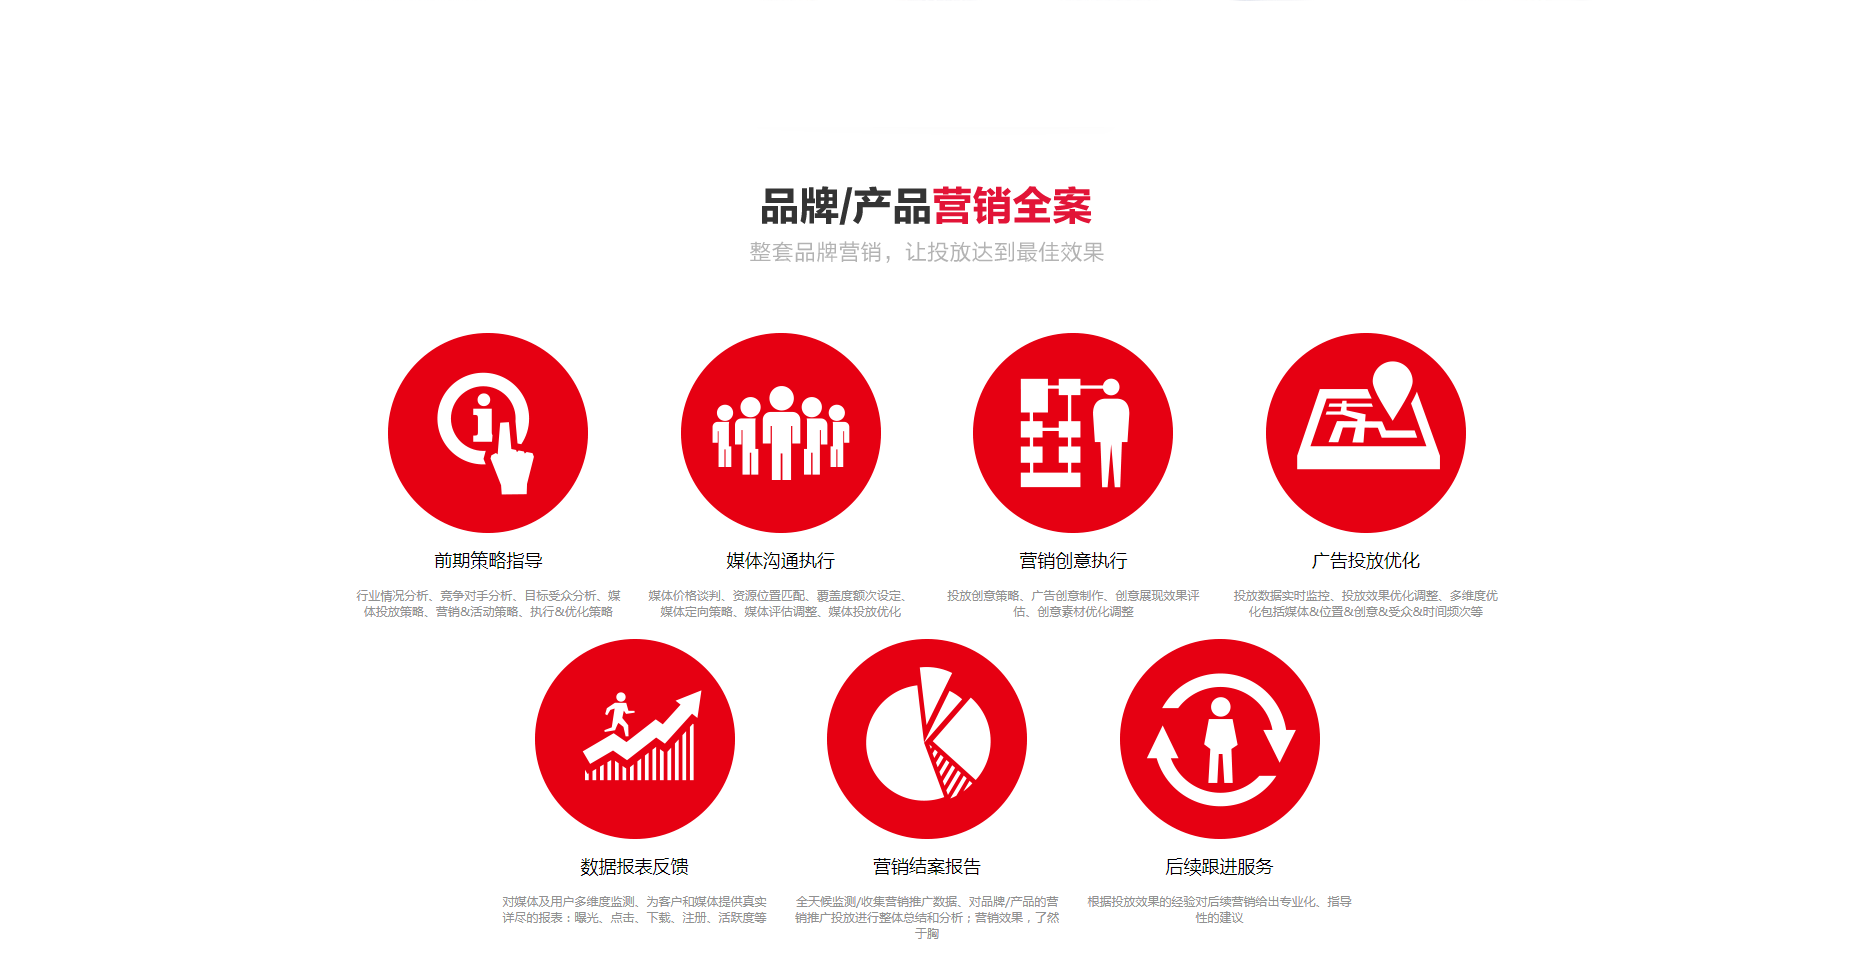
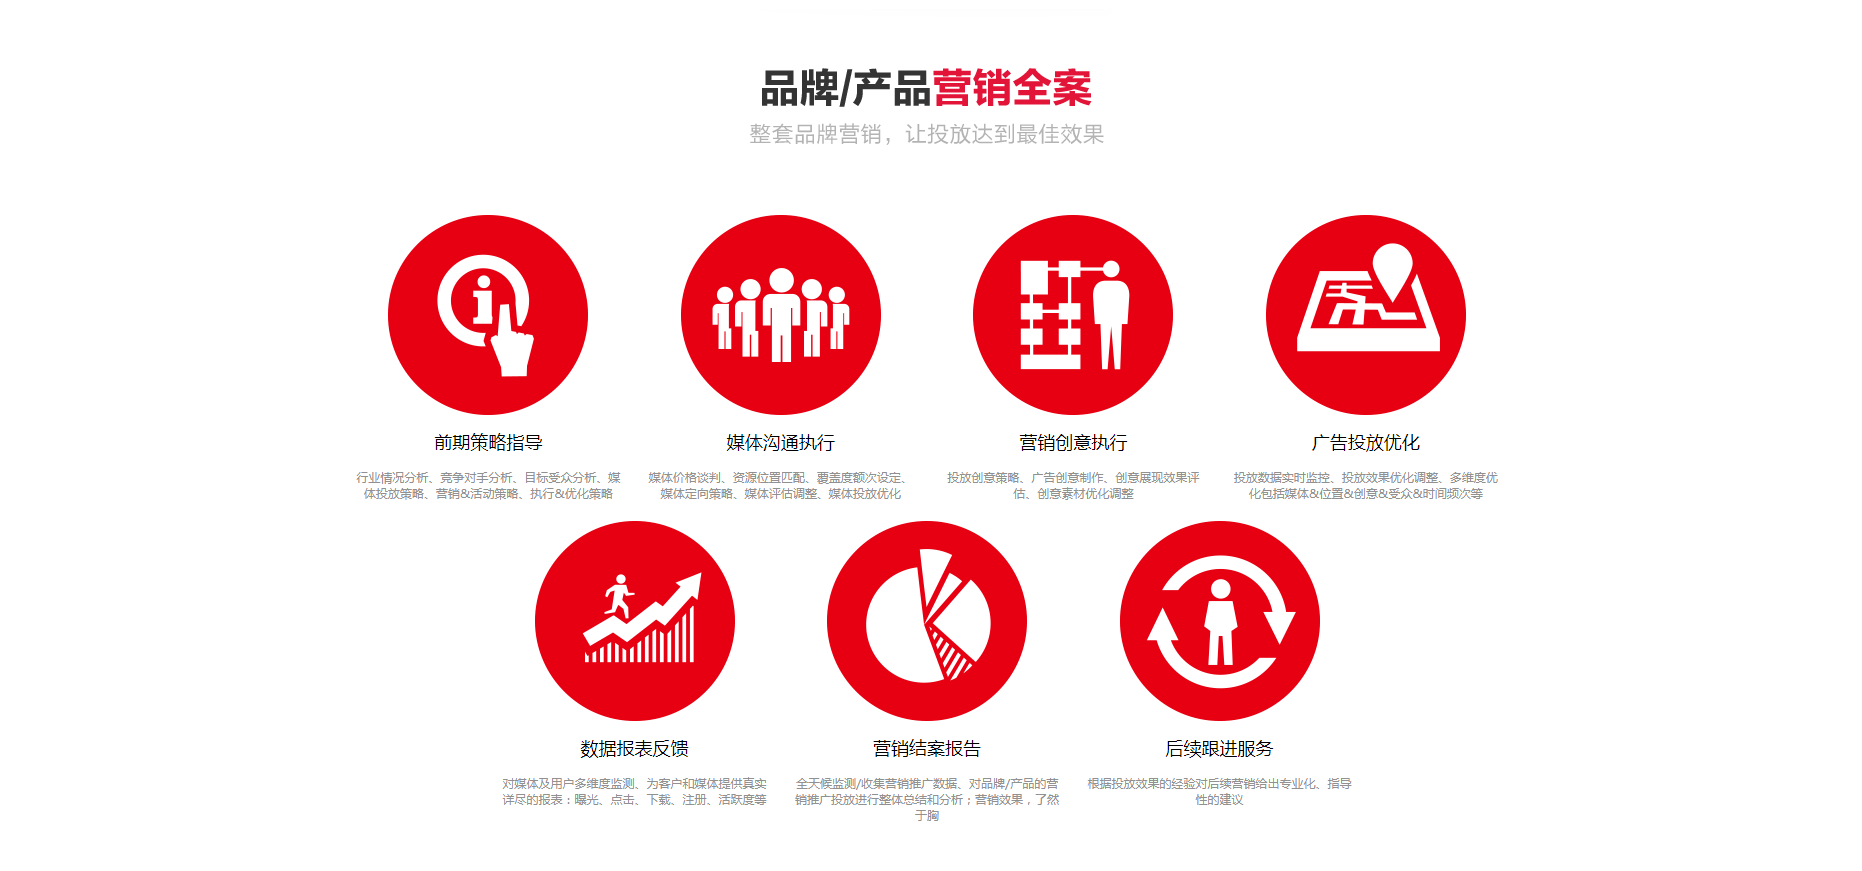
调整

Changed region(s): [[0.1869, 0.062, 0.8099, 0.961]]

diff --git a/index.html b/index.html
@@ -159,7 +159,7 @@
     <!-- ***** Features Big Item End ***** -->
 
     <!-- ***** Home Parallax Start ***** -->
-    <section class="mini padding-top-0 padding-bottom-0" id="pricing-plans">
+    <section class="mini" id="pricing-plans">
         <div class="mini-content">
             <div class="container">
                 <div class="row">
@@ -173,7 +173,7 @@
     <!-- ***** Home Parallax End ***** -->
 
     <!-- ***** Testimonials Start ***** -->
-    <section class="section padding-top-0 padding-bottom-0" id="features">
+    <section class="section" id="features">
         <div class="container">
             <!-- ***** Section Title Start ***** -->
             <div class="row">
@@ -189,7 +189,7 @@
     <!-- ***** Testimonials End ***** -->
 
     <!-- ***** Pricing Plans Start ***** -->
-    <section class="section colored padding-top-0 padding-bottom-0" id="work-process">
+    <section class="section colored padding-top-0" id="work-process">
         <div class="container">
             <!-- ***** Section Title Start ***** -->
             <div class="row">

diff --git a/assets/css/templatemo-softy-pinko.css b/assets/css/templatemo-softy-pinko.css
@@ -445,7 +445,7 @@ header
 
 .header-area {
     position: fixed;
-    top: 49px;
+    top: 65px;
     left: 0px;
     right: 0px;
     z-index: 100;
@@ -1703,7 +1703,7 @@ preloader
     .counter .container,
     #pinpai .container {
         max-width: 100%;
-        padding: 0;
+        /* padding: 0; */
         background-color: #fff;
     }
 }
